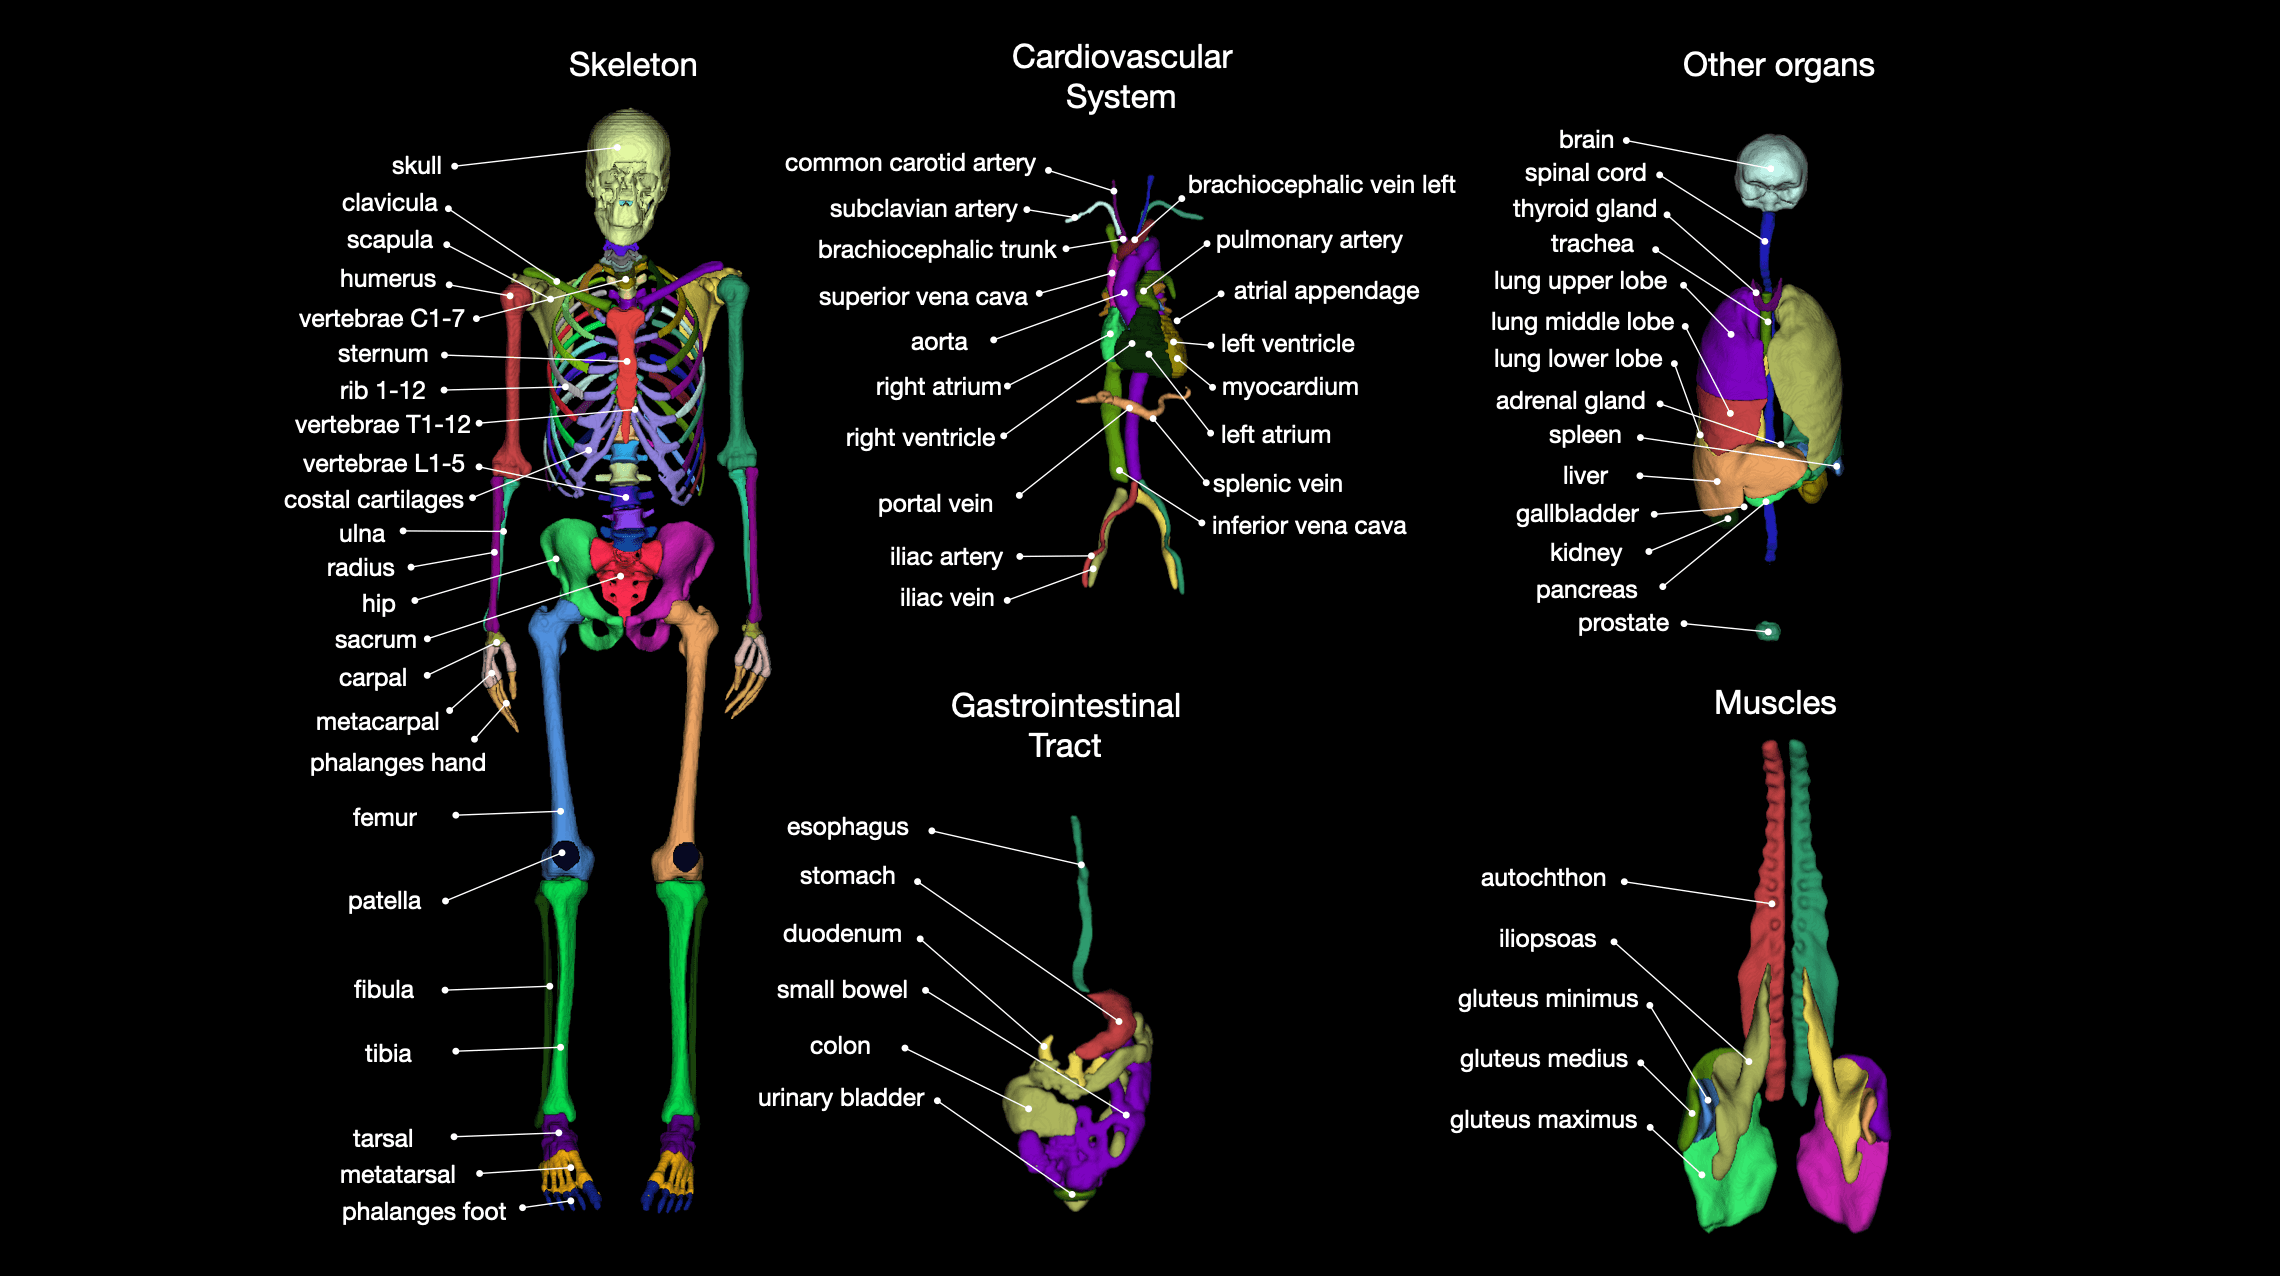
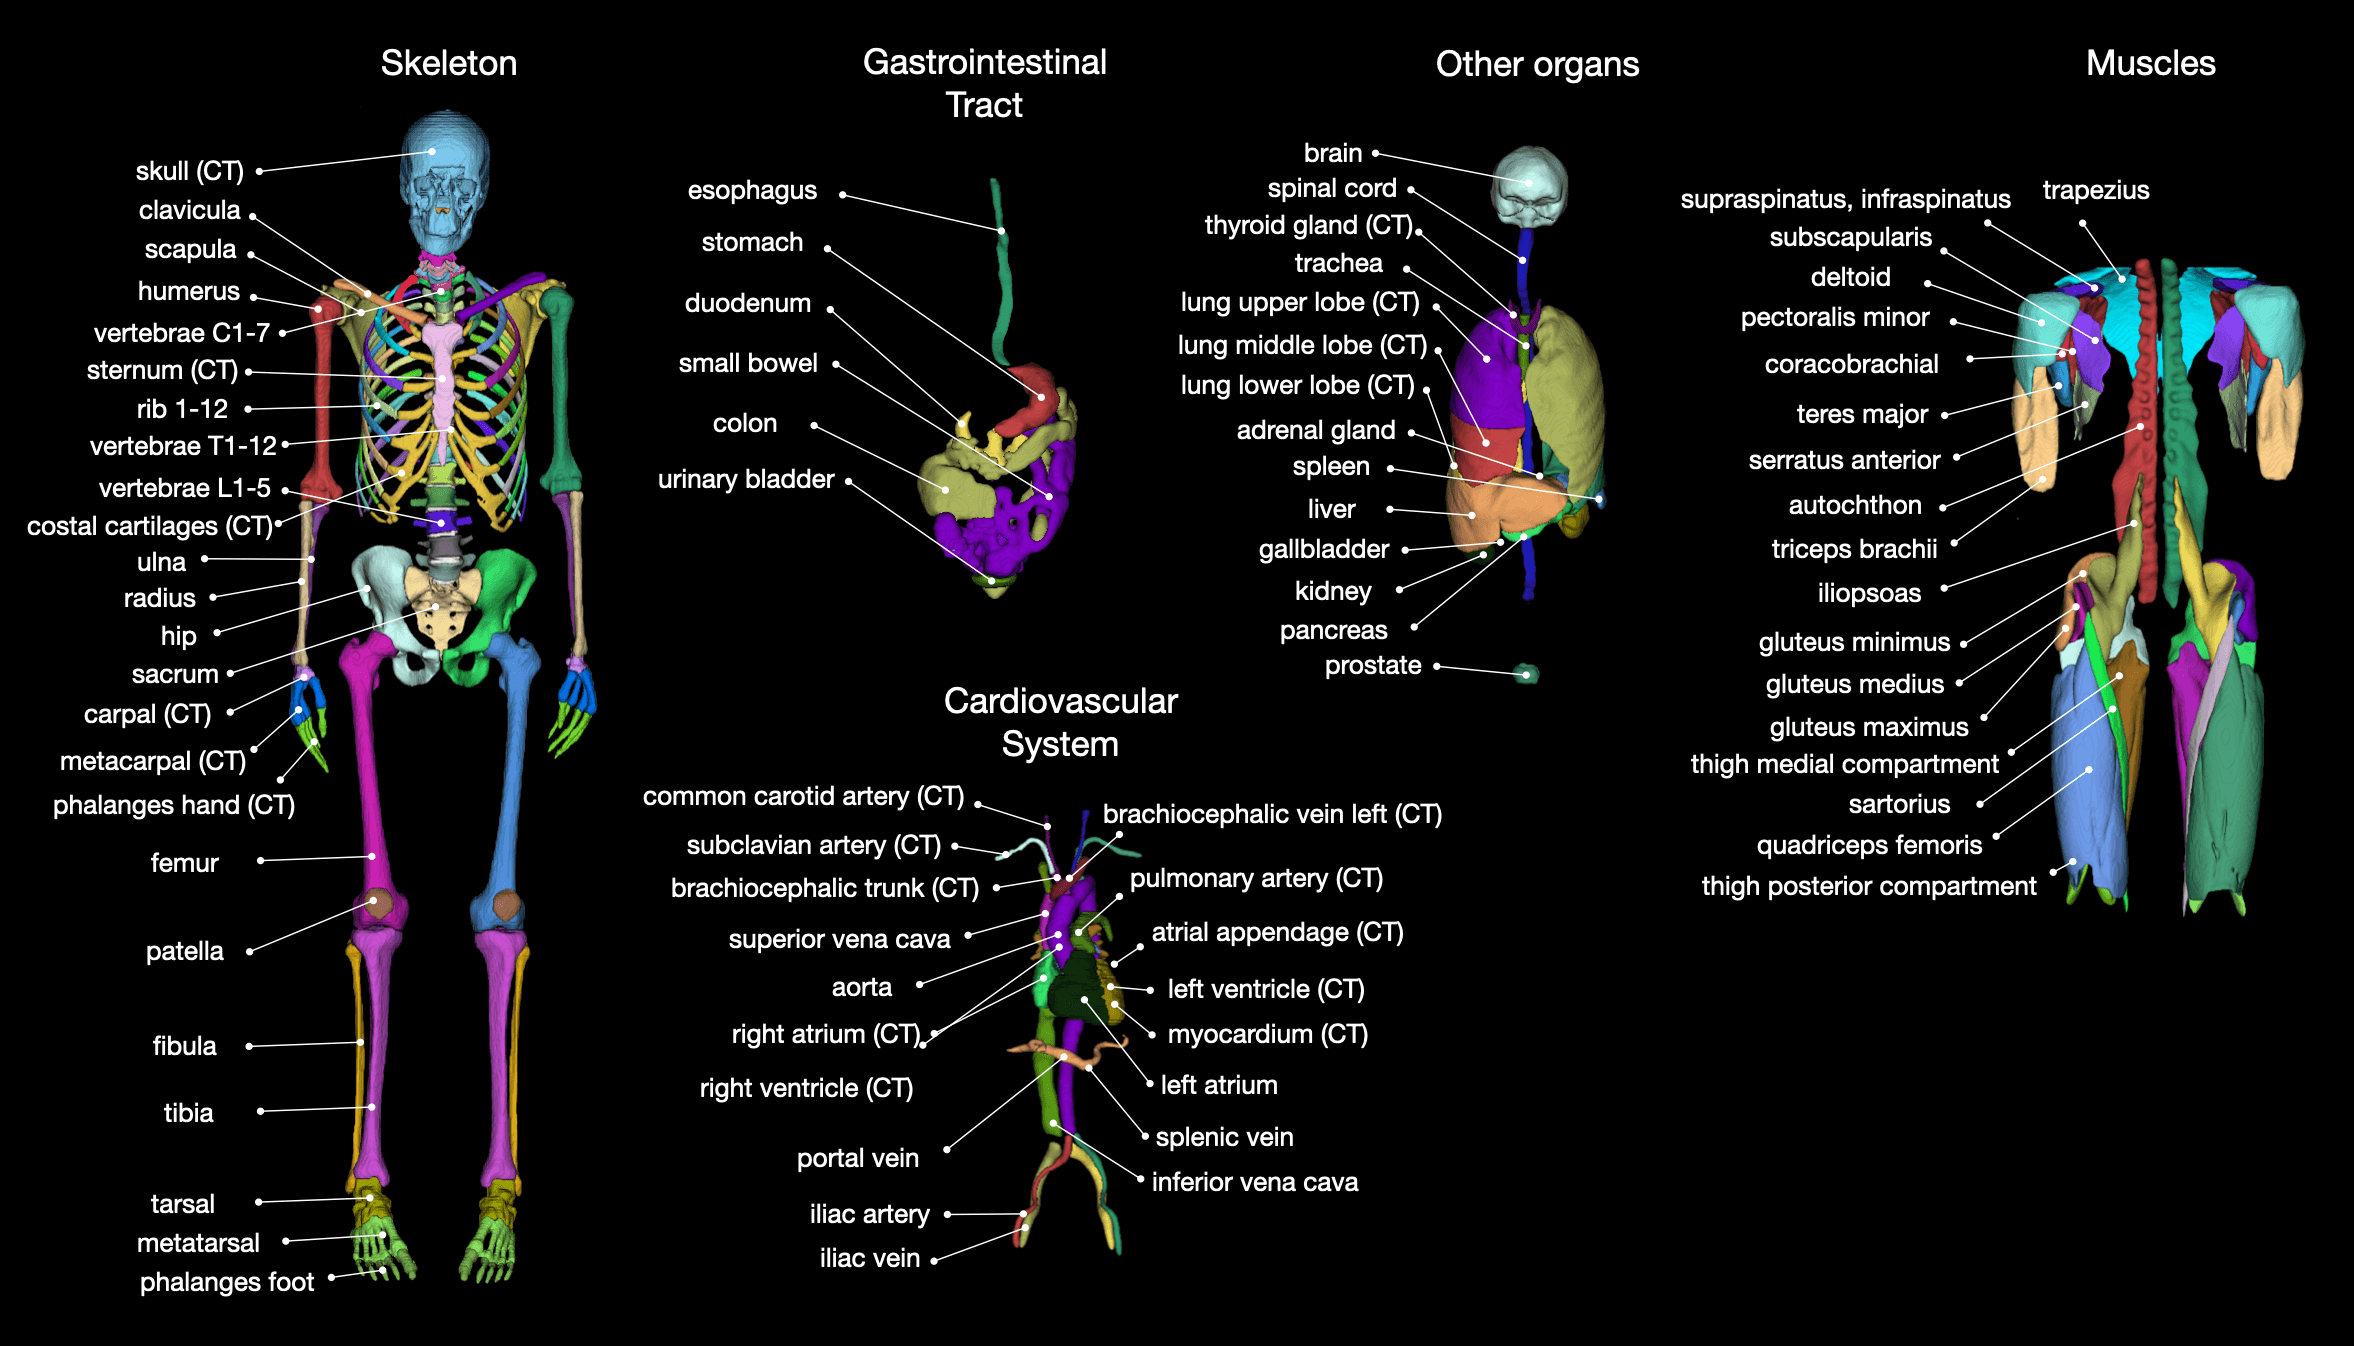
update readme

diff --git a/README.md b/README.md
@@ -4,13 +4,10 @@ Tool for segmentation of most major anatomical structures in any CT or MR image.
 
 **ANNOUNCEMENT: We created a platform where anyone can help annotate more data to further improve TotalSegmentator: [TotalSegmentator Annotation Platform](https://annotate.totalsegmentator.com).**
 
-Main classes for CT: 
+Main classes for CT and MR:
 ![Alt text](resources/imgs/overview_classes_v2.png)
 
-Main classes for MR: 
-![Alt text](resources/imgs/overview_classes_mr.png)
-
-See [here](https://backend.totalsegmentator.com/find-task/) for all available structures.
+TotalSegmentator supports a lot more structures. See [subtasks](#subtasks) or [here](https://backend.totalsegmentator.com/find-task/) for more details.
 
 Created by the department of [Research and Analysis at University Hospital Basel](https://www.unispital-basel.ch/en/radiologie-nuklearmedizin/forschung-radiologie-nuklearmedizin).
 If you use it please cite our [Radiology AI paper](https://pubs.rsna.org/doi/10.1148/ryai.230024) ([free preprint](https://arxiv.org/abs/2208.05868)). If you use it for MR images please cite the [TotalSegmentator MRI paper](https://arxiv.org/abs/2405.19492). Please also cite [nnUNet](https://github.com/MIC-DKFZ/nnUNet) since TotalSegmentator is heavily based on it.